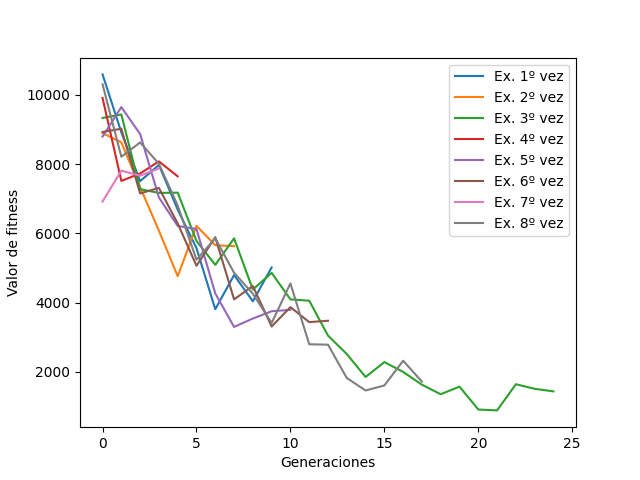
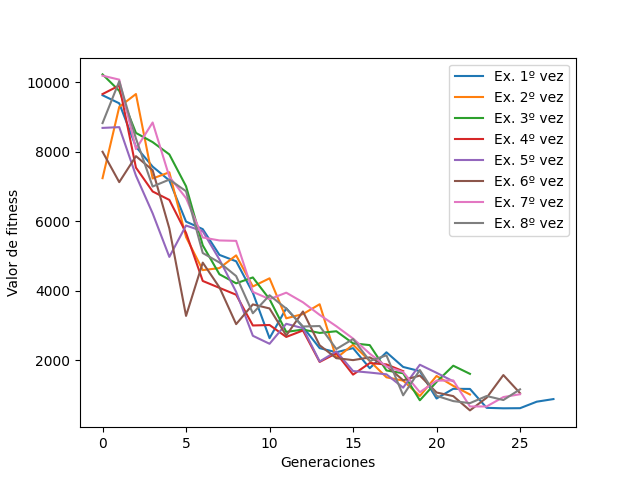
madriz

diff --git a/Práctica 1/algoritmo_gen.py b/Práctica 1/algoritmo_gen.py
@@ -10,12 +10,13 @@ import matplotlib.pyplot as plt
 
 # Constantes
 WEBSITE = "http://memento.evannai.inf.uc3m.es/age/test?c="
-WEBSITE_24 = "http://memento.evannai.inf.uc3m.es/age/alfa?c="
-NUM_SENSORS = 4 * 16 # tamaño cromosoma, 4 estaciones con 16 sensores cada una
+WEBSITE_24 = "http://163.117.164.219/age/alfa?c="
+WEBSITE_MADRIZ = "http://163.117.164.219/age/madriz?c="
+NUM_SENSORS = 24 * 16 # tamaño cromosoma, 4 estaciones con 16 sensores cada una
 
 SIZE_POPULATION = 100 # tamaño población, número de individuos de una población
 CYCLES = 5 # número máximo de ciclos(generaciones) sin mejora que permitimos
-NUM_TIMES_EXPERIMENT = 8 # número de veces que se va a ejecutar el experimento
+NUM_TIMES_EXPERIMENT = 1 # número de veces que se va a ejecutar el experimento
 
 
 
@@ -24,7 +25,7 @@ NUM_TIMES_EXPERIMENT = 8 # número de veces que se va a ejecutar el experimento
 # Petición al servidor
 def getRequest(chromosome):
     # Valor de evaluación
-    request = float(requests.get(WEBSITE + chromosome).text)
+    request = float(requests.get(WEBSITE_MADRIZ + chromosome).text)
 
     return request
 
@@ -423,13 +424,13 @@ print("Mejor individuo del experimento: ", best_of_generation[best_of_generation
 
 # plt.plot(list_best_of_generation_eval[0], list_best_of_generation_eval[1])
 plt.plot(list_best_of_generation_eval[0], label='Ex. 1º vez')
-plt.plot(list_best_of_generation_eval[1], label='Ex. 2º vez')
-plt.plot(list_best_of_generation_eval[2], label='Ex. 3º vez')
-plt.plot(list_best_of_generation_eval[3], label='Ex. 4º vez')
-plt.plot(list_best_of_generation_eval[4], label='Ex. 5º vez')
-plt.plot(list_best_of_generation_eval[5], label='Ex. 6º vez')
-plt.plot(list_best_of_generation_eval[6], label='Ex. 7º vez')
-plt.plot(list_best_of_generation_eval[7], label='Ex. 8º vez')
+# plt.plot(list_best_of_generation_eval[1], label='Ex. 2º vez')
+# plt.plot(list_best_of_generation_eval[2], label='Ex. 3º vez')
+# plt.plot(list_best_of_generation_eval[3], label='Ex. 4º vez')
+# plt.plot(list_best_of_generation_eval[4], label='Ex. 5º vez')
+# plt.plot(list_best_of_generation_eval[5], label='Ex. 6º vez')
+# plt.plot(list_best_of_generation_eval[6], label='Ex. 7º vez')
+# plt.plot(list_best_of_generation_eval[7], label='Ex. 8º vez')
 
 plt.xlabel('Generaciones')
 plt.ylabel('Valor de fitness')
